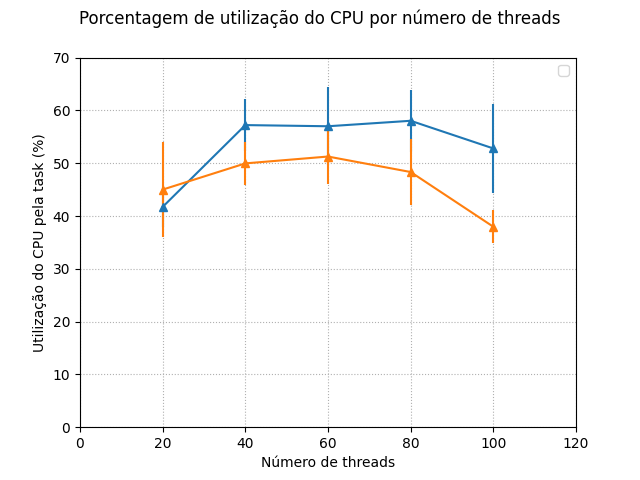
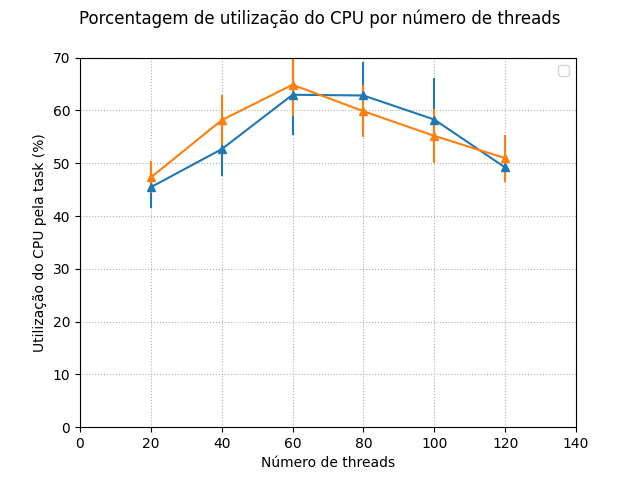
adds comparison graphs

diff --git a/translator.py b/translator.py
@@ -50,7 +50,7 @@ def returnGraphSpec(mix, metric):
         return variables
 
 def generateChart(comparison, webserviceA, webserviceB,  mix): 
-        threads = [20, 40, 60, 80, 100]
+        threads = [20, 40, 60, 80, 100, 120]
         metrics = ["CPU", "mem", "disk", "net", "time"]
         for metric in metrics:
                 print("Processing " + mix + " for metric " + metric + "...")
@@ -126,7 +126,7 @@ def generateChart(comparison, webserviceA, webserviceB,  mix):
                 plt.ylim(0, graphVaribles['ylim'])
 
                 plt.xlabel("Número de threads")
-                plt.xlim(0, 120)
+                plt.xlim(0, 140)
                 plt.grid(linestyle=':')
                 plt.errorbar(threads, meanA, stdA, linestyle='-', marker='^')
                 plt.legend()
